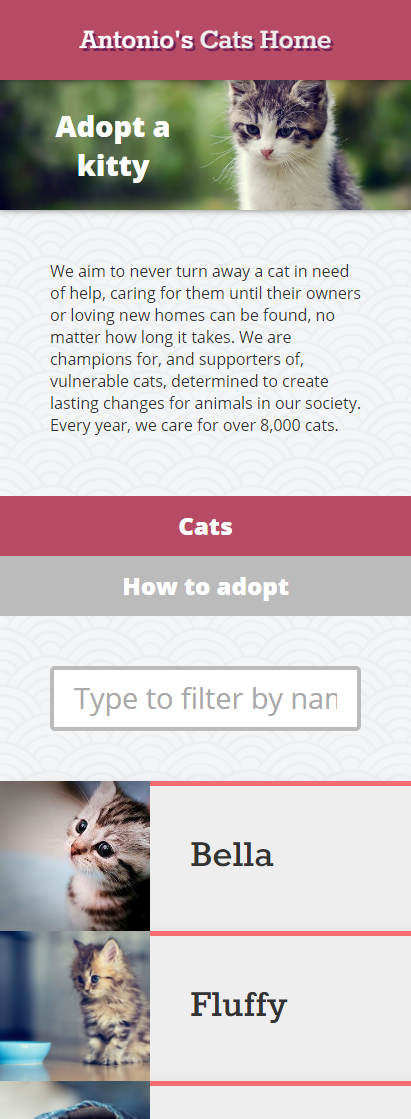
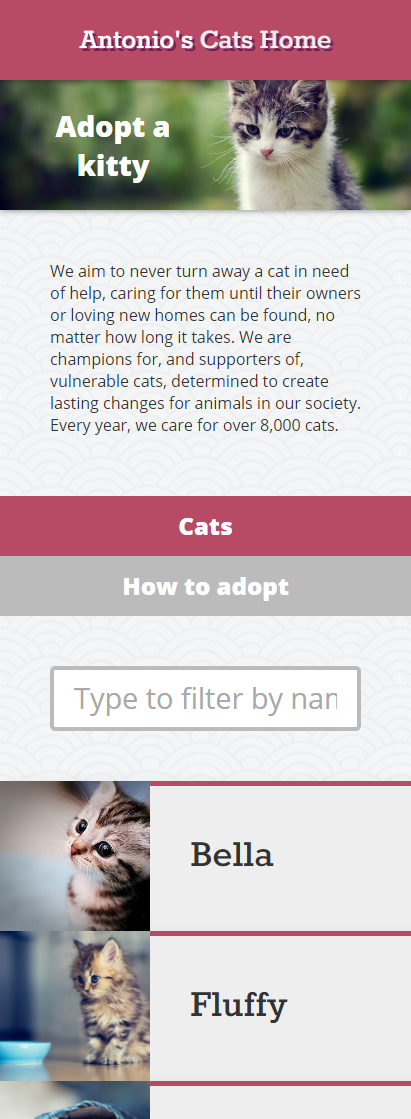
Image correction.

Changed region(s): [[0.3796, 0.9419, 1.0, 0.9723], [0.3796, 0.8204, 1.0, 0.8508], [0.3796, 0.6988, 1.0, 0.7292]]

diff --git a/angular1.5/dist/style.css b/angular1.5/dist/style.css
@@ -229,6 +229,8 @@ input:focus {
 @media (max-width: 800px) {
   .card {
     height: 150px;
+    margin: 0;
+    box-shadow: 0 5px 0 #b74b66 inset, 10px 10px 30px rgba(0, 0, 0, 0.2);
   }
 }
 .card:hover {
@@ -240,12 +242,6 @@ input:focus {
 .card:active {
   transform: scale(1);
   background: lightyellow;
-}
-@media (max-width: 800px) {
-  .card {
-    margin: 0;
-    box-shadow: 0 5px 0 #f86d72 inset, 10px 10px 30px rgba(0, 0, 0, 0.2);
-  }
 }
 .card--selected {
   background: papayawhip;

diff --git a/angular1.5/src/angularDirectives/cardList/card.less b/angular1.5/src/angularDirectives/cardList/card.less
@@ -20,6 +20,9 @@
 	
 	@media (max-width: @mobileBreakpoint) {
 		height: 150px;
+		margin: 0;
+			
+		box-shadow: 0 5px 0 @purple2 inset, 10px 10px 30px rgba(0, 0, 0, 0.2);
 	}
 	
 	&:hover {
@@ -32,12 +35,6 @@
 	&:active {
 		transform: scale(1);
 		background: lightyellow;
-	}
-	
-	@media (max-width: @mobileBreakpoint) {
-		margin: 0;
-		
-		box-shadow: 0 5px 0 @purple3 inset, 10px 10px 30px rgba(0, 0, 0, 0.2);
 	}
 	
 	&--selected {
